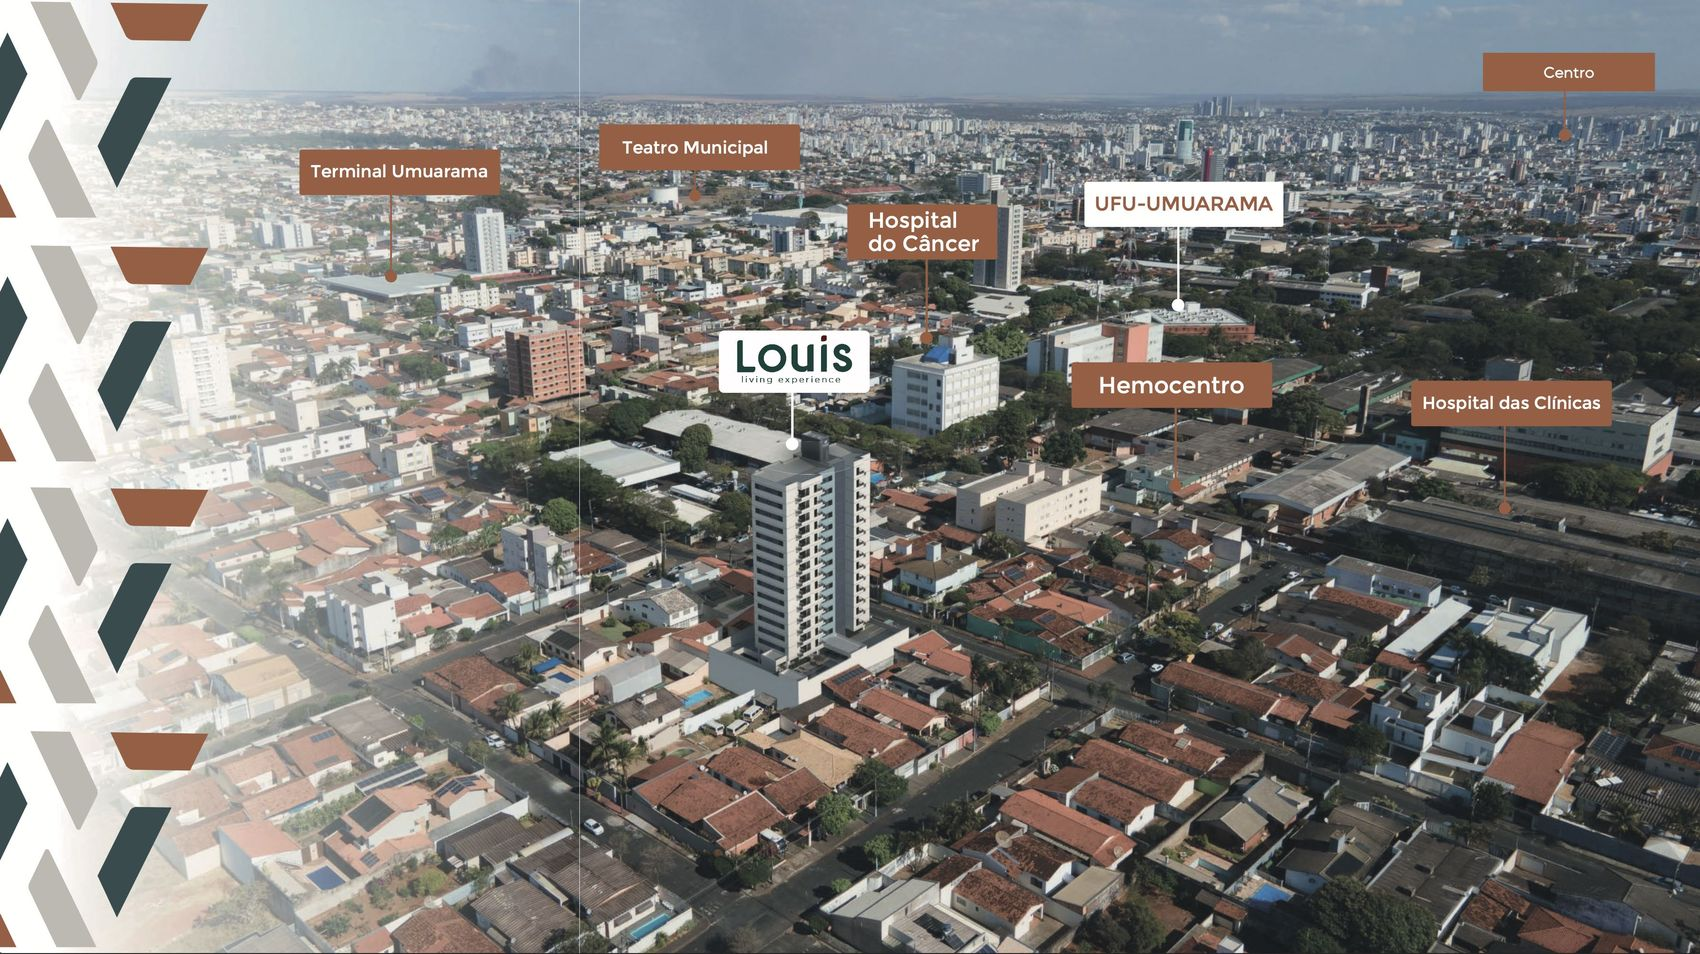
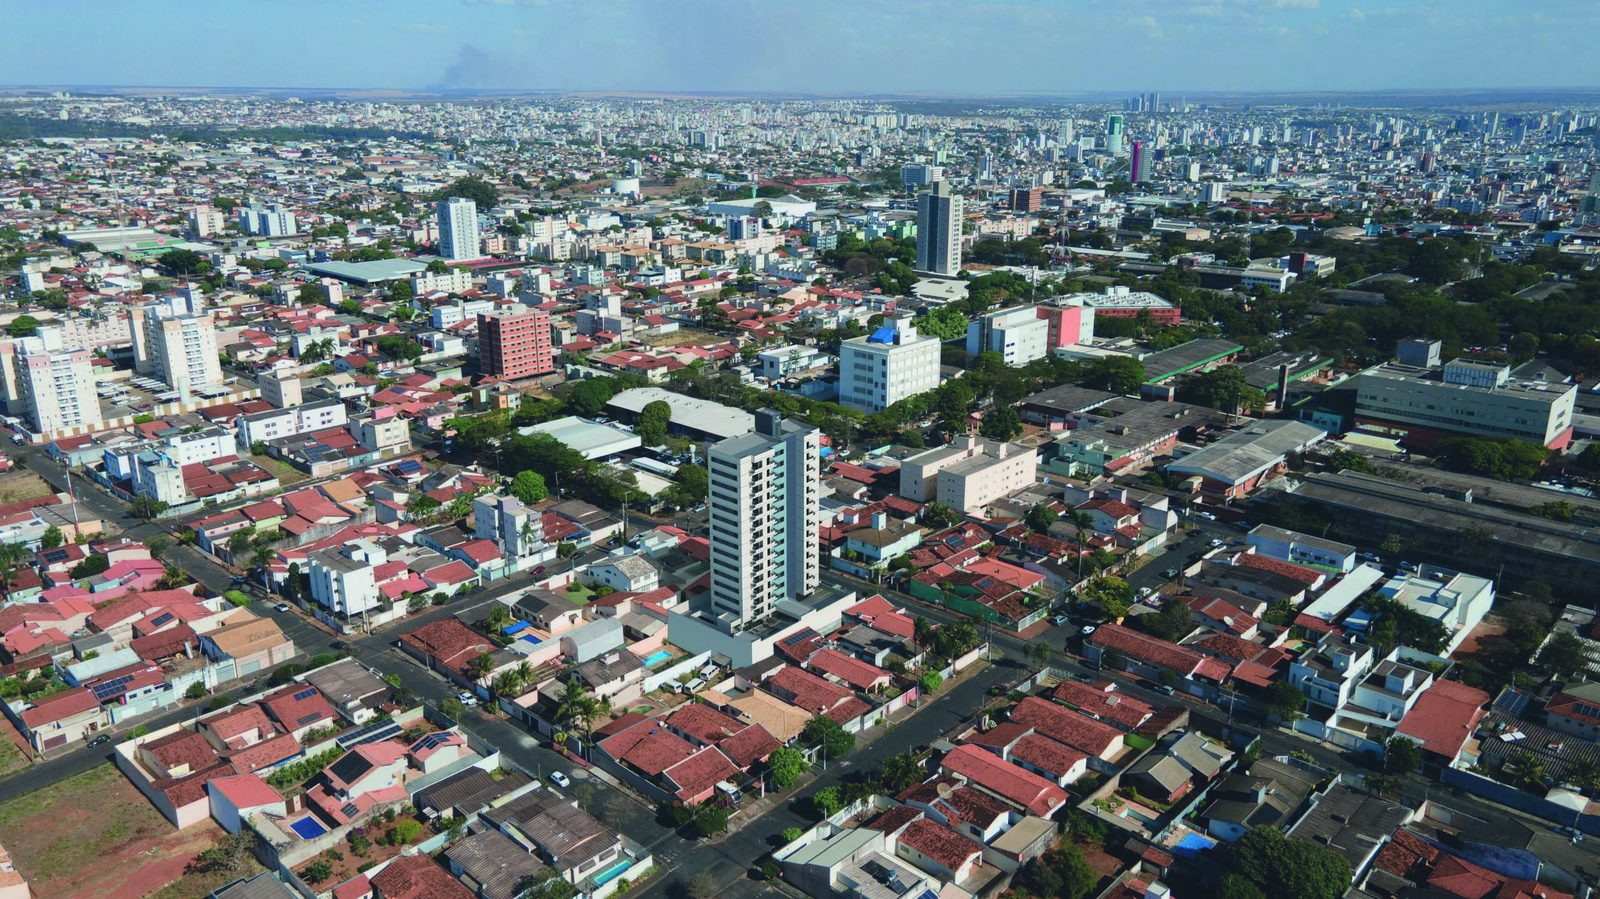
feat(louis): redesenho da landing -- capa premium + secao de renders + polish
A capa estava ruim (render noturno ruidoso). Troquei por renders OFICIAIS extraidos
do book da Select (PyMuPDF) e otimizados pro web:
- HERO: torre ao entardecer iluminada (no lugar do render escuro), maior, com moldura
  e brilho sutil; layout do hero refinado.
- NOVA secao "Studios e Lazer": mosaico com piscina/rooftop, living, cozinha, dormitorio,
  academia, gourmet, lounge e fachada -- antes a pagina nao mostrava NENHUM render do produto.
- aerial.jpg trocada por versao limpa; og.jpg social = piscina.
- galeria: tile grande em object-fit cover (era contain sobre escuro).
- cores novas seguem a regra "sem preto" (#212b3d / rgba(33,43,61)).

diff --git a/src/pages/LancamentoLouis.jsx b/src/pages/LancamentoLouis.jsx
@@ -3,6 +3,7 @@ import { Link } from 'react-router-dom'
 import Reveal from '../components/Reveal'
 import { useSEO } from '../useSEO'
 import { CONFIG, linkWhatsApp } from '../data'
+import { onImgError } from '../img'
 import { registrarLead } from '../engajamento'
 import { IconWhats, IconArrow, IconPin } from '../components/icons'
 
@@ -33,6 +34,18 @@ const PORQUES = [
   { ico: 'M20 7h-9M14 17H5M17 3v8M7 13v8M3 7a2 2 0 1 0 4 0 2 2 0 0 0-4 0M17 7a2 2 0 1 0 4 0 2 2 0 0 0-4 0', t: 'Gestão Housi, sem dor de cabeça', d: 'A Housi cuida da locação por temporada de ponta a ponta — anúncio, reservas, limpeza e repasse. Você recebe sem administrar nada.' },
   { ico: 'M3 3v18h18M7 14l3-3 3 3 5-6', t: 'Locação por temporada autorizada', d: 'Locação de curta estadia (Airbnb) prevista em convenção do condomínio — modelo pensado desde o projeto para render mais que o aluguel tradicional.' },
   { ico: 'M12 1v22M17 5H9.5a3.5 3.5 0 0 0 0 7h5a3.5 3.5 0 0 1 0 7H6', t: 'Entrada acessível, no lançamento', d: 'A partir de R$ 38.700 de sinal e parcelamento direto com a construtora, comprando ainda na planta — o melhor preço da curva.' },
+]
+
+// Renders oficiais (extraídos do book da Select) — studios + lazer do prédio
+const VISUAIS = [
+  { img: 'pool.jpg', t: 'Piscina & rooftop', wide: true },
+  { img: 'living.jpg', t: 'Living do studio' },
+  { img: 'kitchen.jpg', t: 'Cozinha integrada' },
+  { img: 'bedroom.jpg', t: 'Dormitório' },
+  { img: 'gym.jpg', t: 'Academia' },
+  { img: 'gourmet.jpg', t: 'Espaço gourmet', wide: true },
+  { img: 'lounge.jpg', t: 'Lounge & coworking', wide: true },
+  { img: 'entrance.jpg', t: 'Entrada e fachada', wide: true },
 ]
 
 function Stat({ k, v }) {
@@ -178,6 +191,26 @@ export default function LancamentoLouis() {
               </Reveal>
             ))}
           </div>
+        </div>
+      </section>
+
+      {/* ---------- STUDIOS & LAZER (renders) ---------- */}
+      <section className="lou-sec lou-sec--vis section--light">
+        <div className="container">
+          <Reveal>
+            <span className="eyebrow">Studios & lazer</span>
+            <h2 className="lou-h2">Um produto desenhado para render</h2>
+            <p className="lou-sub">Studios prontos para morar ou alugar por temporada, com lazer completo no prédio — exatamente a estrutura que o hóspede procura e que mantém a ocupação alta o ano inteiro.</p>
+          </Reveal>
+          <div className="lou-visuais">
+            {VISUAIS.map((v) => (
+              <figure key={v.img} className={`lou-vis ${v.wide ? 'lou-vis--wide' : ''}`}>
+                <img src={`/lancamentos/louis/${v.img}`} alt={`Louis Living Experience — ${v.t}`} loading="lazy" referrerPolicy="no-referrer" onError={onImgError} />
+                <figcaption>{v.t}</figcaption>
+              </figure>
+            ))}
+          </div>
+          <p className="lou-vis-nota">Imagens de render meramente ilustrativas, fornecidas pela Select Construtora.</p>
         </div>
       </section>
 

diff --git a/src/index.css b/src/index.css
@@ -8348,8 +8348,9 @@ html[data-theme="dark"] .det-info--claro .det-preco .pg-de { color: #9a8e78; -we
 .lou-btn-ghost:hover { background: rgba(244,239,230,0.1); border-color: #F4EFE6; }
 .lou-btn-ghost--dark { color: #1C2A44; border-color: rgba(28,42,68,0.32); }
 .lou-btn-ghost--dark:hover { background: rgba(28,42,68,0.06); border-color: #1C2A44; }
-.lou-hero-fig { display: flex; justify-content: center; }
-.lou-hero-fig img { width: 100%; max-width: 380px; border-radius: 16px; filter: drop-shadow(0 30px 60px rgba(33, 43, 61,0.55)); }
+.lou-hero-fig { position: relative; display: flex; justify-content: center; }
+.lou-hero-fig::before { content: ''; position: absolute; z-index: 0; width: 78%; height: 62%; right: 2%; top: 16%; background: radial-gradient(circle, rgba(235,1,40,0.20), transparent 70%); filter: blur(46px); }
+.lou-hero-fig img { position: relative; z-index: 1; width: 100%; max-width: 470px; border-radius: 22px; border: 1px solid rgba(255,255,255,0.12); box-shadow: 0 44px 90px -34px rgba(33, 43, 61,0.85); }
 
 /* SEÇÕES genéricas */
 .lou-sec { padding: clamp(54px, 7vw, 92px) 0; }
@@ -8407,8 +8408,18 @@ html[data-theme="dark"] .det-info--claro .det-preco .pg-de { color: #9a8e78; -we
 .lou-gal { position: relative; margin: 0; border-radius: 14px; overflow: hidden; background: #f1ece1; }
 .lou-gal img { width: 100%; height: 100%; object-fit: cover; display: block; }
 .lou-gal--big { grid-row: span 2; }
-.lou-gal--big img { object-fit: contain; background: #212b3d; }
-.lou-gal figcaption { position: absolute; left: 0; right: 0; bottom: 0; padding: 8px 12px; font-size: 0.78rem; color: #fff; background: linear-gradient(transparent, rgba(10,14,22,0.72)); }
+.lou-gal--big img { object-fit: cover; }
+.lou-gal figcaption { position: absolute; left: 0; right: 0; bottom: 0; padding: 8px 12px; font-size: 0.78rem; color: #fff; background: linear-gradient(transparent, rgba(33,43,61,0.78)); }
+
+/* STUDIOS & LAZER — mosaico de renders oficiais */
+.lou-sec--vis .lou-sub { margin-bottom: 22px; }
+.lou-visuais { display: grid; grid-template-columns: repeat(4, 1fr); grid-auto-rows: 232px; gap: 14px; margin-top: 6px; }
+.lou-vis { position: relative; margin: 0; border-radius: 16px; overflow: hidden; background: #ece6da; box-shadow: 0 18px 40px -32px rgba(28,42,68,0.5); }
+.lou-vis img { width: 100%; height: 100%; object-fit: cover; display: block; transition: transform .6s var(--ease); }
+.lou-vis:hover img { transform: scale(1.05); }
+.lou-vis--wide { grid-column: span 2; }
+.lou-vis figcaption { position: absolute; left: 0; right: 0; bottom: 0; padding: 30px 16px 13px; font-family: var(--font-head); font-weight: 600; font-size: 0.92rem; color: #fff; background: linear-gradient(transparent, rgba(33,43,61,0.9)); }
+.lou-vis-nota { font-size: 0.78rem; color: #8a8f99; margin: 18px 0 0; }
 
 /* FORM */
 .lou-form-sec { background: #212b3d; color: #FFFFFF; padding: clamp(54px, 7vw, 96px) 0; background-image: radial-gradient(100% 100% at 100% 0%, rgba(10, 14, 22,0.18), transparent 55%); }
@@ -8442,6 +8453,7 @@ html[data-theme="dark"] .det-info--claro .det-preco .pg-de { color: #9a8e78; -we
   .lou-ancoras { grid-template-columns: 1fr; }
   .lou-galeria { grid-template-columns: repeat(2, 1fr); grid-auto-rows: 180px; }
   .lou-gal--big { grid-column: span 2; grid-row: span 1; height: 280px; }
+  .lou-visuais { grid-template-columns: repeat(2, 1fr); grid-auto-rows: 190px; }
   .lou-form-wrap { grid-template-columns: 1fr; }
 }
 @media (max-width: 520px) {